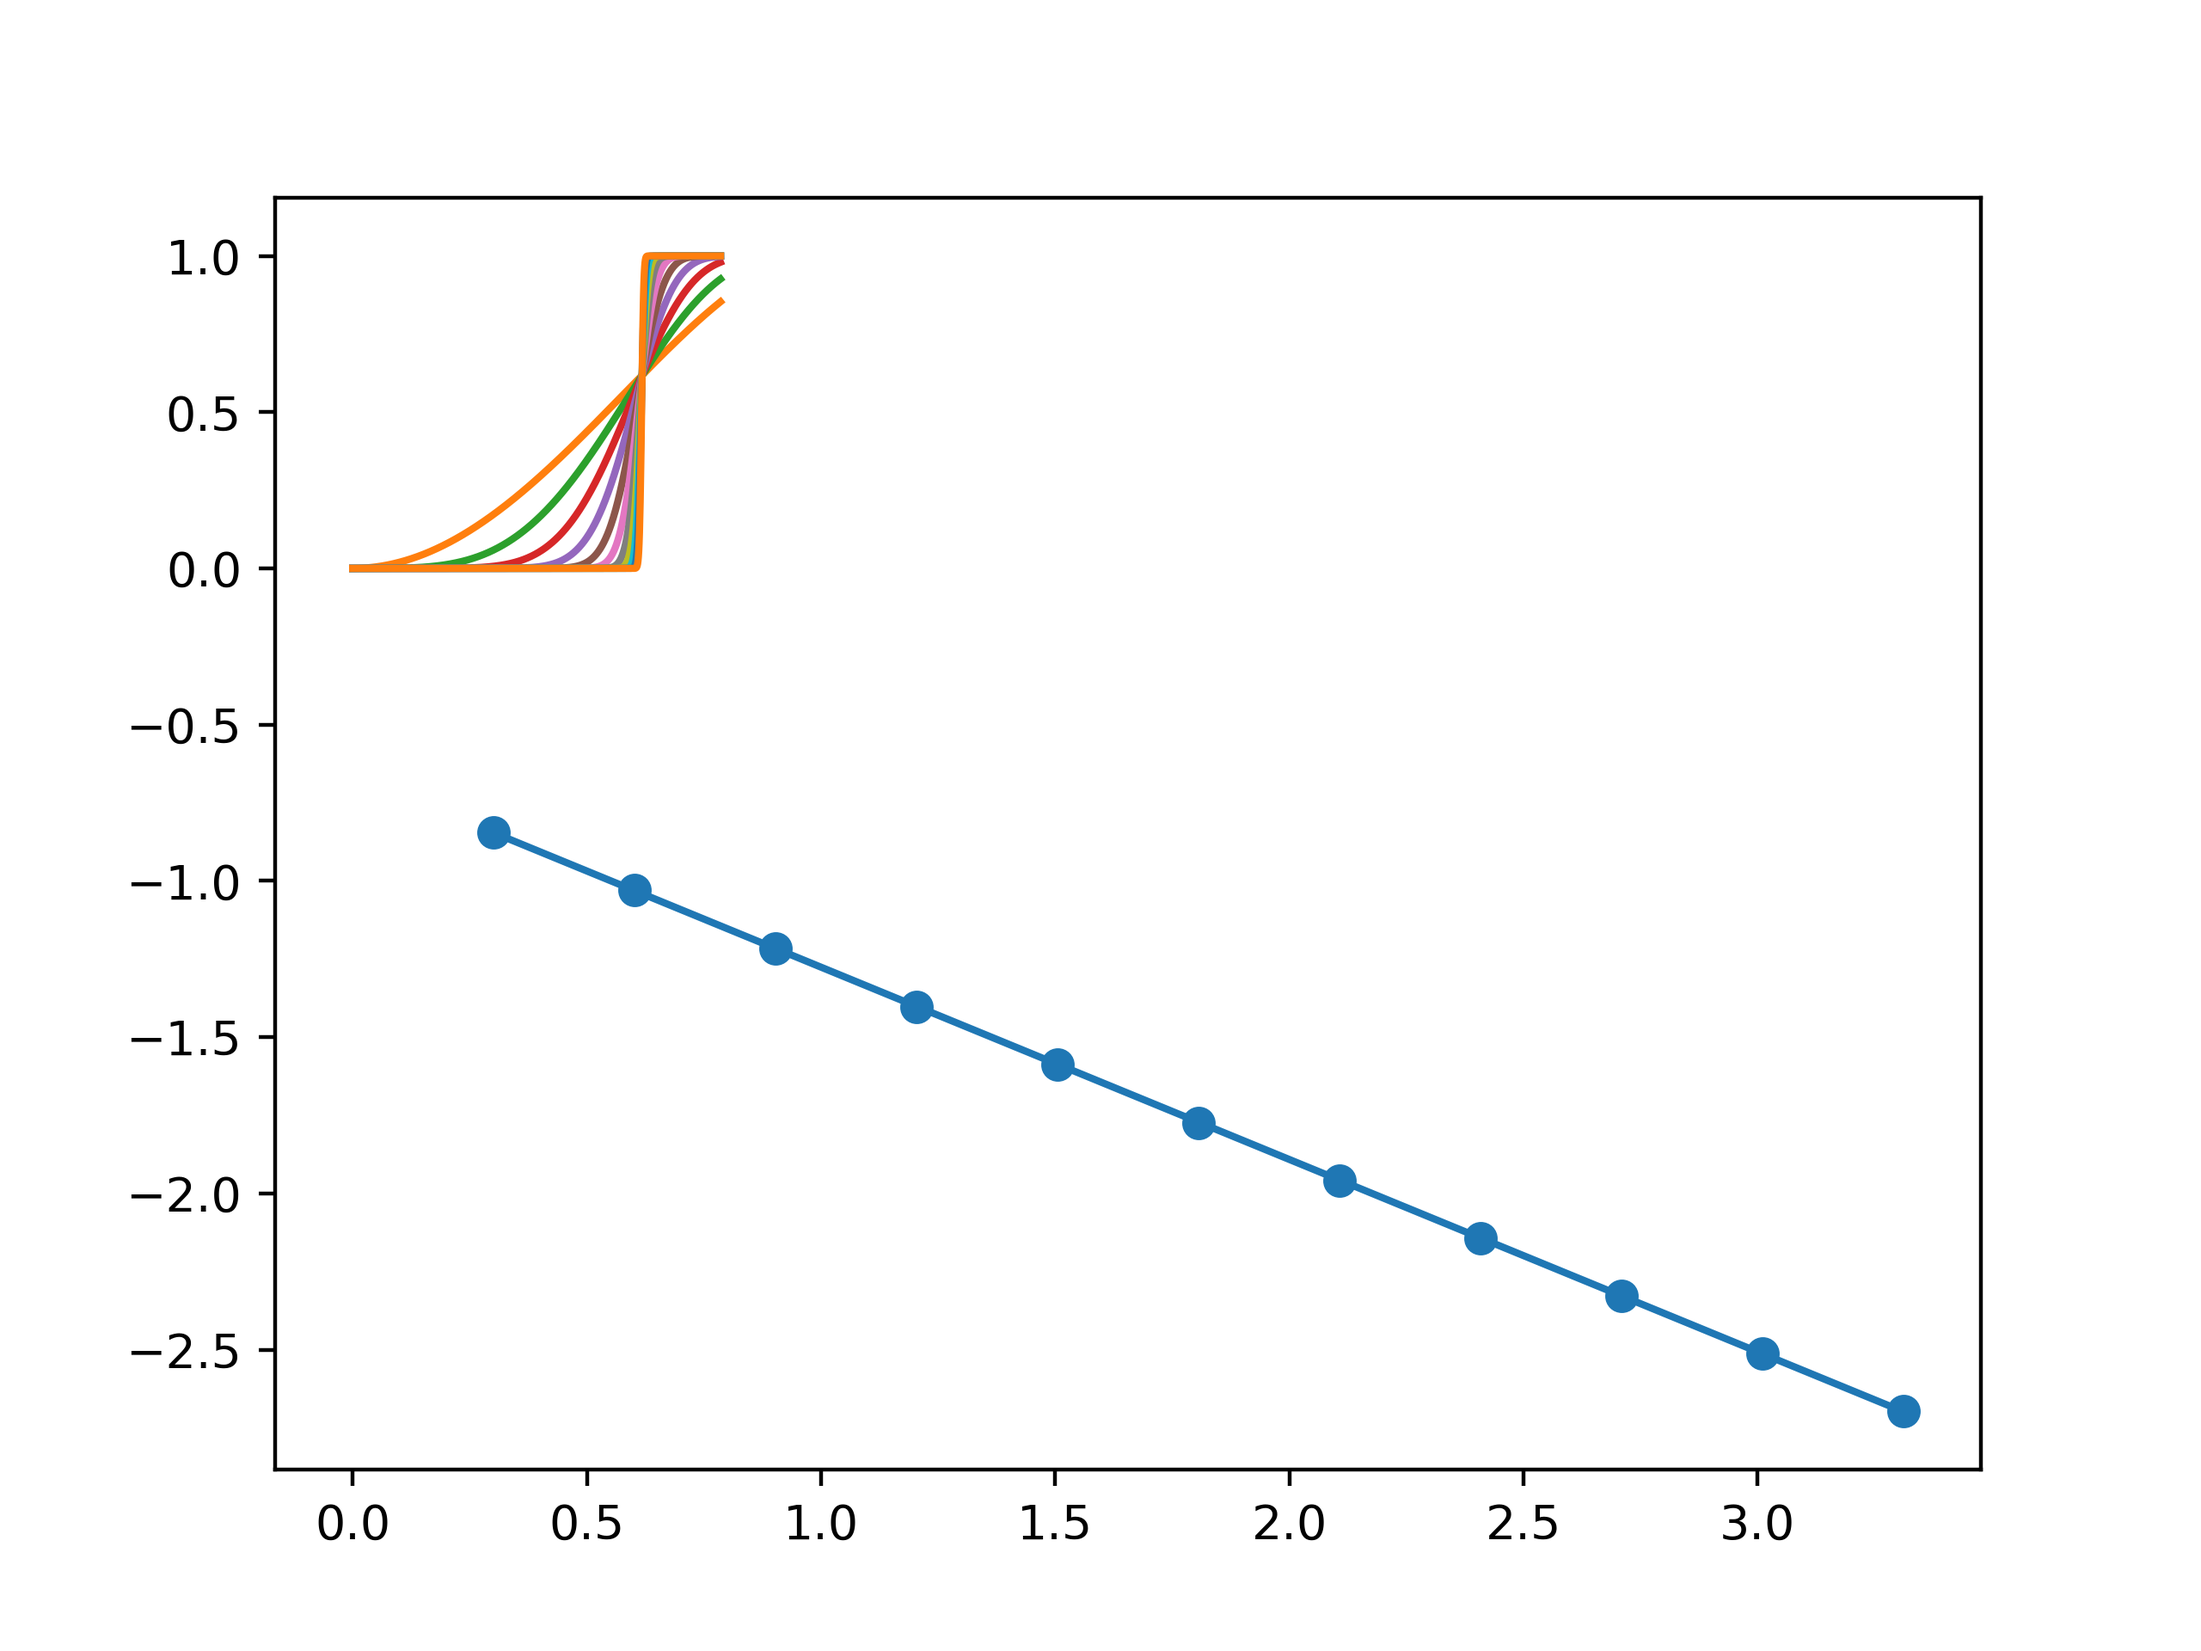
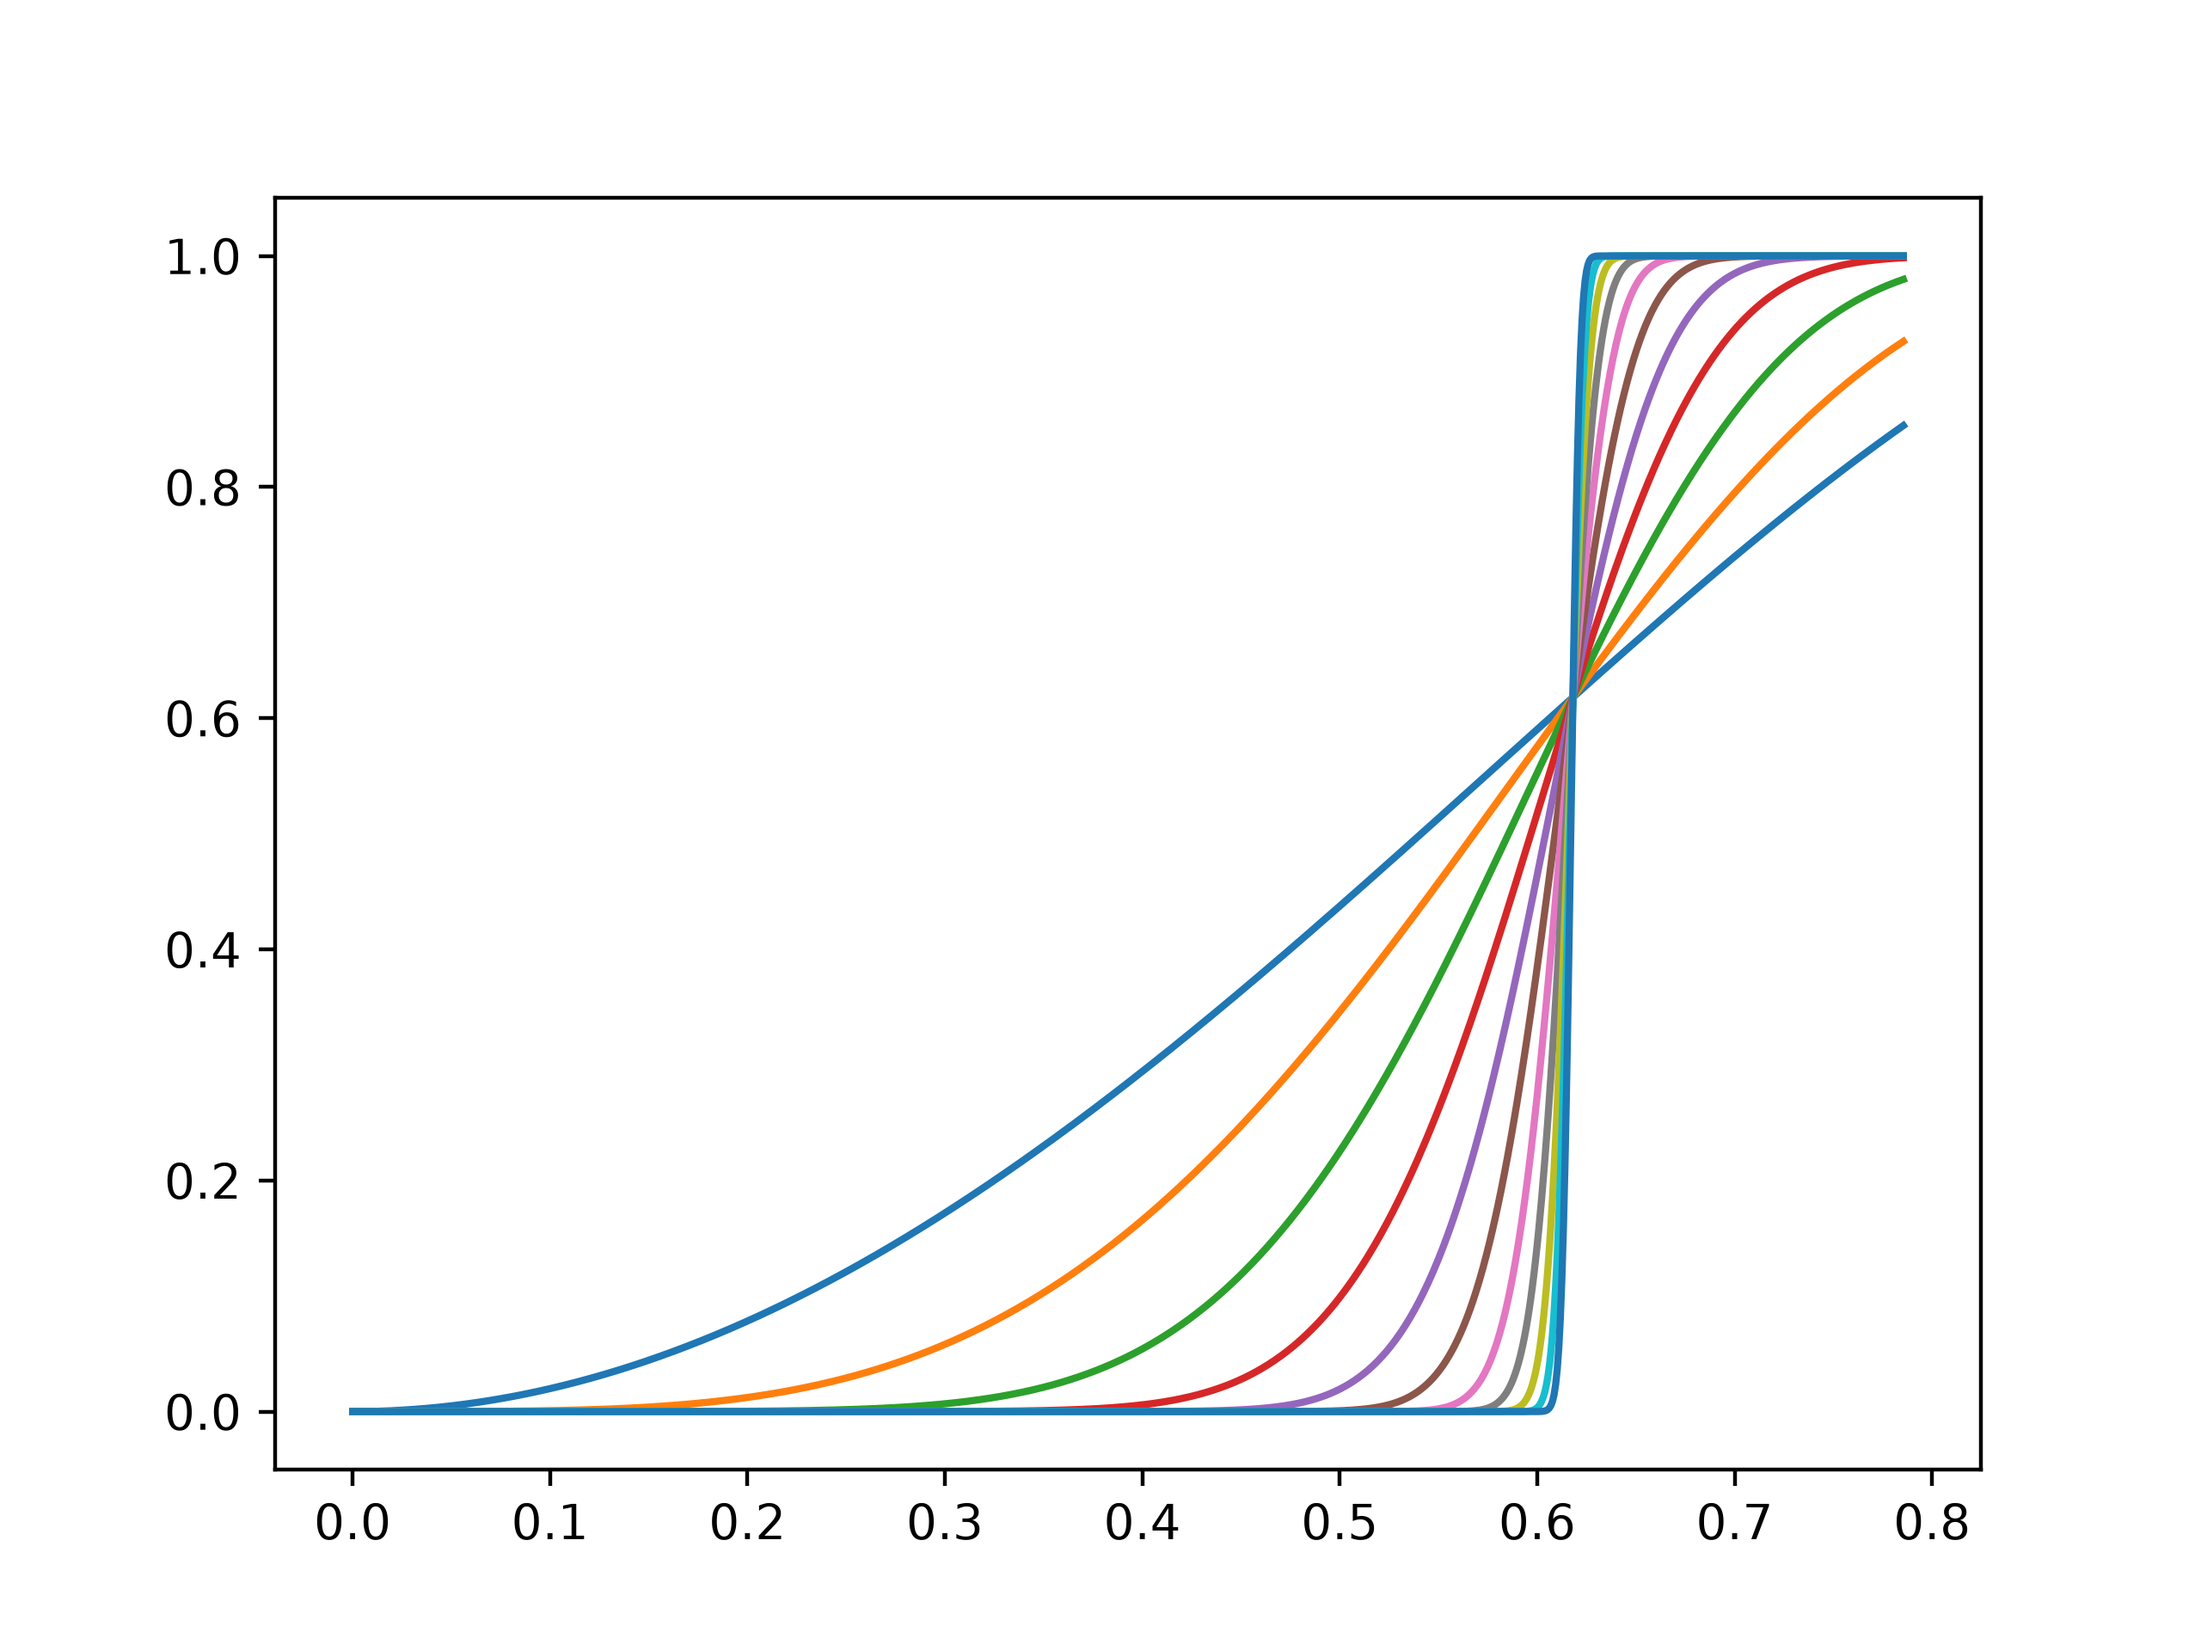
new updates, some things work, other things are completely useless slop and can be ignored :p

diff --git a/uv_op.py b/uv_op.py
@@ -1,0 +1,102 @@
+import numpy as np
+from random import random
+import matplotlib.pyplot as plt
+
+TRIALS = 1000
+GR_RES = 100
+
+
+def n1_22_flower(p,p_inf):
+    for q in range(GR_RES):
+        for _ in range(TRIALS):
+            r = [ random() for _ in range(4) ]
+            adj_m = [ 1 if r[i] < p[q] else 0 for i in range(4) ]
+
+            n_conn = (adj_m[0] or adj_m[1]) + (adj_m[2] or adj_m[3])
+            p_inf[q] += n_conn / 2
+
+
+
+pr = np.linspace(0,1,GR_RES)
+
+op_inf = np.zeros(GR_RES)
+
+
+n1_22_flower(pr,op_inf)
+plt.scatter(pr,op_inf/np.max(op_inf))
+plt.plot(pr,1-(1-pr)**2)
+
+plt.show()
+
+import itertools
+import random
+
+import numpy as np
+
+import sm_trans as sm
+
+T, A, B = 0, 1, 2
+
+
+def reduce_keep(G, keep):
+    H = {n: dict(nb) for n, nb in G.items()}
+    while True:
+        others = [n for n in H if n not in keep]
+        if not others:
+            return H
+        k = min(others, key=lambda n: len(H[n]))
+        nbrs = list(H[k])
+        if len(nbrs) >= 2:
+            for (a, b), w in sm.star_to_mesh_k3({a: H[k][a] for a in nbrs}).items():
+                if b in H[a]:
+                    H[a][b] = H[b][a] = sm.para(H[a][b], w)
+                else:
+                    H[a][b] = H[b][a] = w
+        for a in nbrs:
+            del H[a][k]
+        del H[k]
+
+
+def layer_step(state, w, d, U, V):
+    wtu, wtv, wuv = state
+    L, Lo = (U, V) if d < U else (V, U)       # path holding the ancestry link, other path
+    j = d if d < U else d - U                  # link index along that path
+    cj = A if j == 0 else 3                    # left end of the ancestry link
+    cj1 = B if j + 1 == L else 4               # right end
+    edges = [(T, cj, wtu), (T, cj1, wtv), (cj, cj1, wuv),
+             (A, B, w ** Lo)]                  # the other path, collapsed in series
+    if j > 0:
+        edges.append((cj, A, w ** j))          # rest of this path, to the left
+    if j + 1 < L:
+        edges.append((cj1, B, w ** (L - j - 1)))   # ... and to the right
+    H = reduce_keep(sm.build(edges), {T, A, B})
+    return (H[T].get(A, 0.0), H[T].get(B, 0.0), H[A].get(B, 0.0))
+
+
+def node_value(p, U, V, n, digits, pos, mode="A"):
+    R = lambda x: 1 - (1 - x ** U) * (1 - x ** V)
+    L, Lo = (U, V) if pos[0] == 0 else (V, U)
+    state = (p ** pos[1], p ** (L - pos[1]), p ** Lo)      # t's own motif: exact triangle
+    for g in range(n - 1, 0, -1):                           # parent motifs, bottom-up
+        w = p
+        for _ in range(n - g):
+            w = R(w)
+        state = layer_step(state, w, digits[g - 1], U, V)
+    wtA, wtB, wAB = state
+    return sm.para(wtA, wtB)                                # t reaches A or B (stop at boundary)
+
+
+def pinf(p, U, V, n, mode="A", seed=0):
+
+    positions = [(0, i) for i in range(1, U)] + [(1, i) for i in range(1, V)]
+    items = ((dg, ps) for dg in itertools.product(range(U + V), repeat=n - 1) for ps in positions)
+
+
+    ## Avg over all values for P_inf
+    return np.mean(np.array([node_value(p, U, V, n, dg, ps, mode) for dg, ps in items]))
+
+
+p_inf = [pinf(p,2,2,8) for p in pr]
+
+plt.scatter(pr,p_inf)
+plt.show()

diff --git a/sm_trans.py b/sm_trans.py
@@ -1,7 +1,7 @@
 import numpy as np
 import itertools
 import matplotlib.pyplot as plt
-from scipy.optimize import root
+from scipy.optimize import root, brentq
 import timeit
 
 
@@ -111,3 +111,48 @@ def build(edge_list):
         graph_obj.setdefault(u, {})[v] = w
         graph_obj.setdefault(v, {})[u] = w
     return graph_obj
+
+
+def _star_to_triangle(legs):
+
+    i, j, k = sorted(legs)
+    a_ij, a_ik, a_jk = (1 - legs[i] * legs[j], 1 - legs[i] * legs[k], 1 - legs[j] * legs[k])
+    c1, c2, c3 = a_ij + a_ik - a_jk, a_ij + a_jk - a_ik, a_ik + a_jk - a_ij
+ 
+    def g(x):
+        return (x + c1) * (x + c2) * (x + c3) - 8 * x * x   # g(0) >= 0 >= g(1)
+ 
+    if g(0.0) <= 0:                      # guard against rounding at the endpoints
+        S = 0.0
+    elif g(1.0) >= 0:
+        S = 1.0
+    else:
+        S = brentq(g, 0.0, 1.0, xtol=1e-15)
+    u, v, w = (c1 + S) / 2, (c2 + S) / 2, (c3 + S) / 2
+ 
+    def q(x, y, z):
+        return np.sqrt(x * y / z) if z > 0 else 0.0
+ 
+    return {(i, j): 1 - q(u, v, w), (i, k): 1 - q(u, w, v), (j, k): 1 - q(v, w, u)}
+ 
+ 
+def star_to_mesh_k3(legs):
+    leaves = sorted(legs)
+    if len(leaves) == 2:
+        a, b = leaves
+        return {(a, b): seri(legs[a], legs[b])}
+    if len(leaves) == 3:                         # closed form: no solver needed
+        return _star_to_triangle(legs)
+    pairs = list(itertools.combinations(leaves, 2))
+ 
+    def residuals(x):
+        W = dict(zip(pairs, x))
+        return [cross(i, j, W, leaves) - seri(legs[i], legs[j]) for i, j in pairs]
+ 
+    x0 = [0.5 * seri(legs[i], legs[j]) for i, j in pairs]
+    sol = root(residuals, x0, method="hybr", tol=1e-13)
+    # Judge convergence by the residual, not sol.success: with a tight tol the flag
+    # can be False even when the equations are already solved to ~1e-16.
+    if not sol.success and max(abs(r) for r in residuals(sol.x)) > 1e-10:
+        raise RuntimeError(sol.message)
+    return dict(zip(pairs, sol.x))
